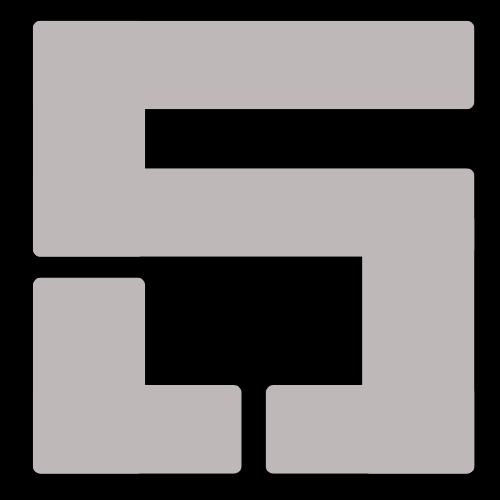
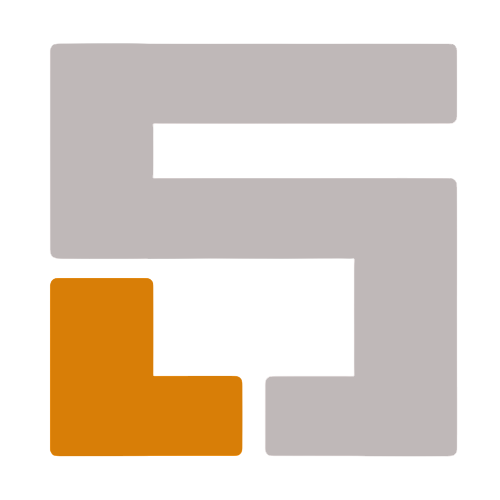
navbar change version

diff --git a/src/components/Navbar.js b/src/components/Navbar.js
@@ -5,7 +5,7 @@ import logoImg from "./assets/img/learnshop.png";
 const Navbar = () => {
   return (
     <nav
-      className="navbar navbar-expand-md fixed-top navbar-shrink   py-3"
+      className="navbar navbar-expand-md fixed-top navbar-shrink   py-3 bg-dark"
       id="mainNav"
     >
       <div className="container">
@@ -17,20 +17,31 @@ const Navbar = () => {
             height="40"
             className="me-2"
           />
-          <span className="text-white">Learn Shop</span>
+          <span>
+            <span style={{ color: "#d87e07", fontWeight:"bold"}}>Le</span>
+            <span className="text-white font-bold">Earn</span>
+          </span>
         </a>
         <button
           data-bs-toggle="collapse"
           className="navbar-toggler"
           data-bs-target="#navcol-1"
+          style={{ borderColor: "#d87e07" }}
         >
-          <span className="visually-hidden text-white">Toggle navigation</span>
-          <span className="navbar-toggler-icon"></span>
+          <span className="visually-hidden text-white" >Toggle navigation</span>
+          <span className="navbar-toggler-icon " style={{
+      filter:
+        "invert(47%) sepia(86%) saturate(728%) hue-rotate(10deg) brightness(95%) contrast(90%)",
+    }}></span>
         </button>
         <div className="collapse navbar-collapse" id="navcol-1">
-          <ul className="navbar-nav mx-auto">
+          <ul className="navbar-nav mx-auto bg-dark" >
             <li className="nav-item dropdow">
-              <a className="nav-link dropdown-toggle text-white" href="/index.html">
+              <a
+                className="nav-link dropdown-toggle text-white "
+                href="/index.html"
+                
+              >
                 Home
               </a>
             </li>
@@ -69,9 +80,12 @@ const Navbar = () => {
               >
                 Marketplace
               </a>
-              <ul className="dropdown-menu" aria-labelledby="freelanceDropdown">
+              <ul
+                className="dropdown-menu "
+                aria-labelledby="freelanceDropdown"
+              >
                 <li>
-                  <a className="dropdown-item" href="/subpage3.html">
+                  <a className="dropdown-item " href="/subpage3.html">
                     Subpage 3
                   </a>
                 </li>
@@ -82,7 +96,7 @@ const Navbar = () => {
                 </li>
               </ul>
             </li>
-           
+
             <li className="nav-item dropdown">
               <a
                 className="nav-link dropdown-toggle text-white"

diff --git a/public/index.html b/public/index.html
@@ -1,11 +1,12 @@
 <!DOCTYPE html>
 <html lang="en">
   <head>
+    <link rel="icon" href="%PUBLIC_URL%/favicon.ico" />
     <meta charset="UTF-8" />
     <meta name="viewport" content="width=device-width, initial-scale=1.0" />
     <meta
       name="description"
-      content="Web site created using create-react-app"
+      content="Learnshop website"
     />
     <link rel="apple-touch-icon" href="%PUBLIC_URL%/logo192.png" />
     <link rel="manifest" href="%PUBLIC_URL%/manifest.json" />
@@ -17,7 +18,7 @@
     <link rel="stylesheet" href="..components/assets/css/vanilla-zoom.min.css">
     <link rel="stylesheet" href="https://cdnjs.cloudflare.com/ajax/libs/animate.css/4.1.1/animate.min.css">
 
-    <title>React App</title>
+    <title>learn</title>
   </head>
   <body>
     <noscript>You need to enable JavaScript to run this app.</noscript>

diff --git a/src/components/hompageComp/Header.js b/src/components/hompageComp/Header.js
@@ -4,12 +4,12 @@ import headerImg from "../assets/img/posters/p1.png";
 const Header = () => {
   return (
     <header className="bg-dark text-w ">
-      <div className="container pt-4 pt-xl-5">
+      <div className="container pt-6 pt-xl-5">
         <div className="row pt-5">
           <div className="col-md-8 text-center text-md-start mx-auto">
-            <div className="input-group shadow-lg mb-3">
+            <div className="input-group shadow-lg mb-3 pt-5">
               <input
-                className="form-control"
+                className="form-control "
                 type="email"
                 name="email"
                 placeholder="Find a service"

diff --git a/src/components/hompageComp/Trending.js b/src/components/hompageComp/Trending.js
@@ -10,7 +10,6 @@ function Trending() {
             <div className="container">
                 <div className="block-heading">
                     <h2 className="text-info">Advertisement</h2>
-                    <p>Lorem ipsum dolor sit amet, consectetur adipiscing elit. Nunc quam urna, dignissim nec auctor in, mattis vitae leo.</p>
                 </div>
                 <div className="carousel slide" data-bs-ride="carousel" id="carousel-1">
                     <div className="carousel-inner">
